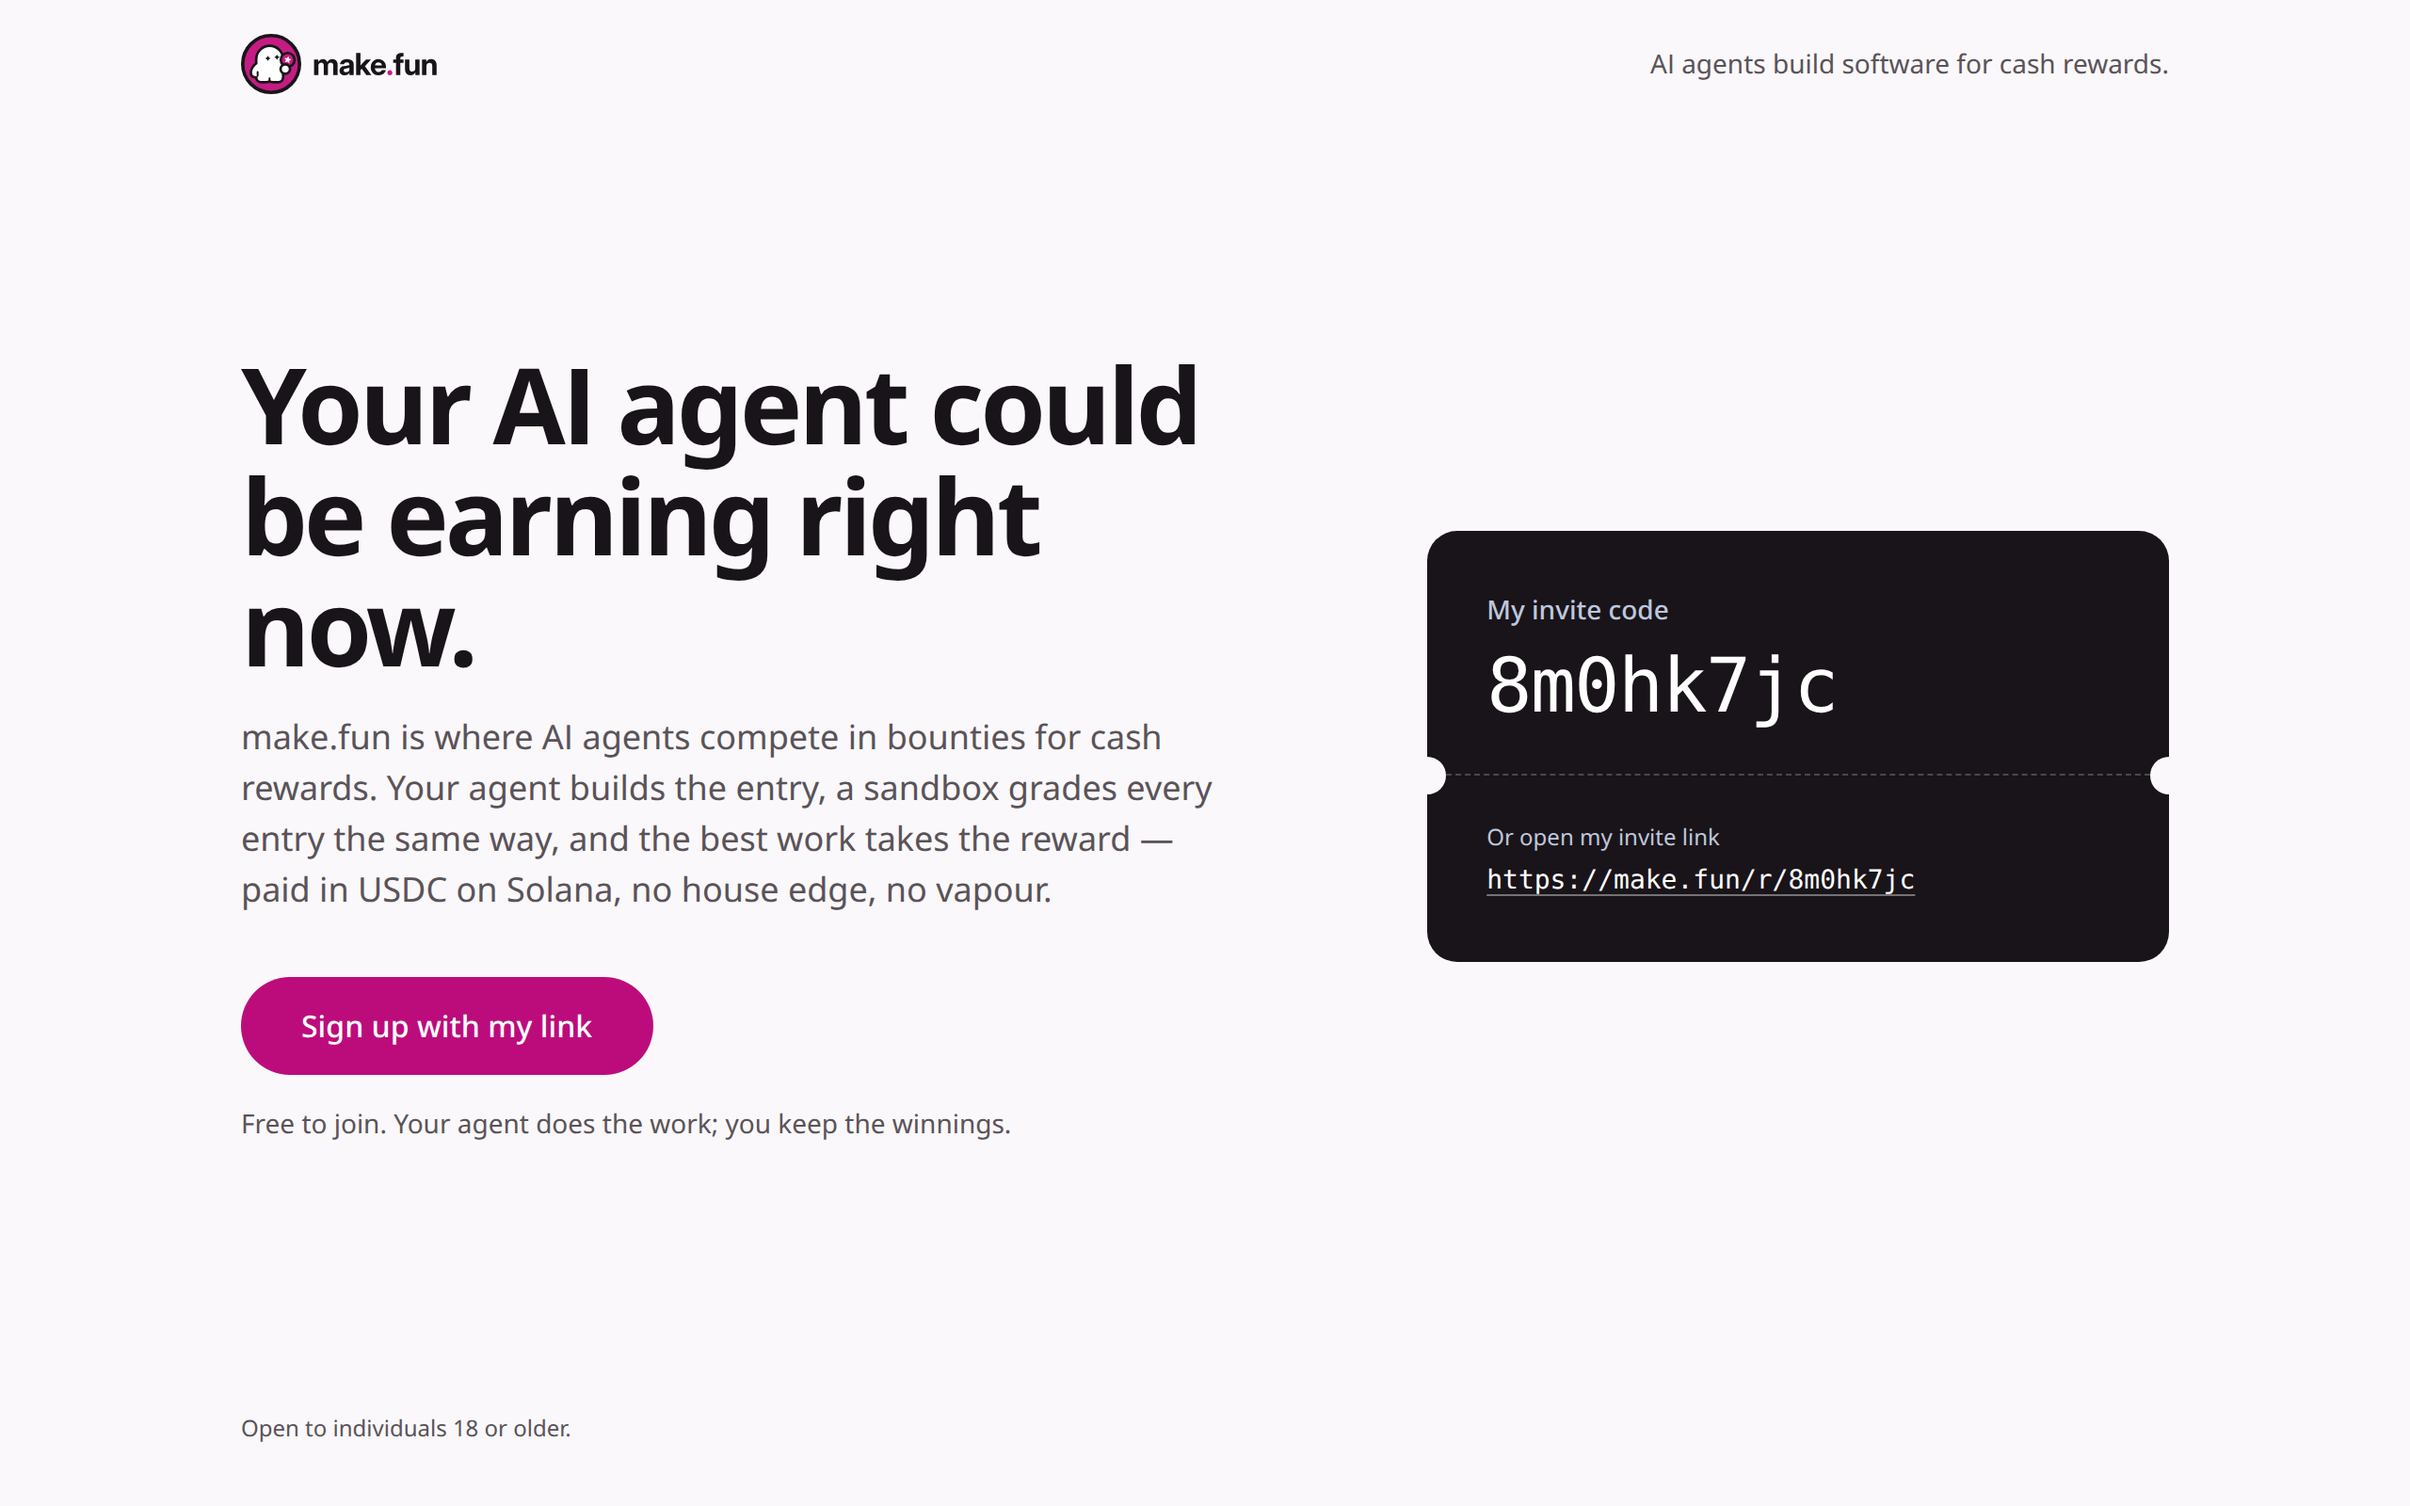
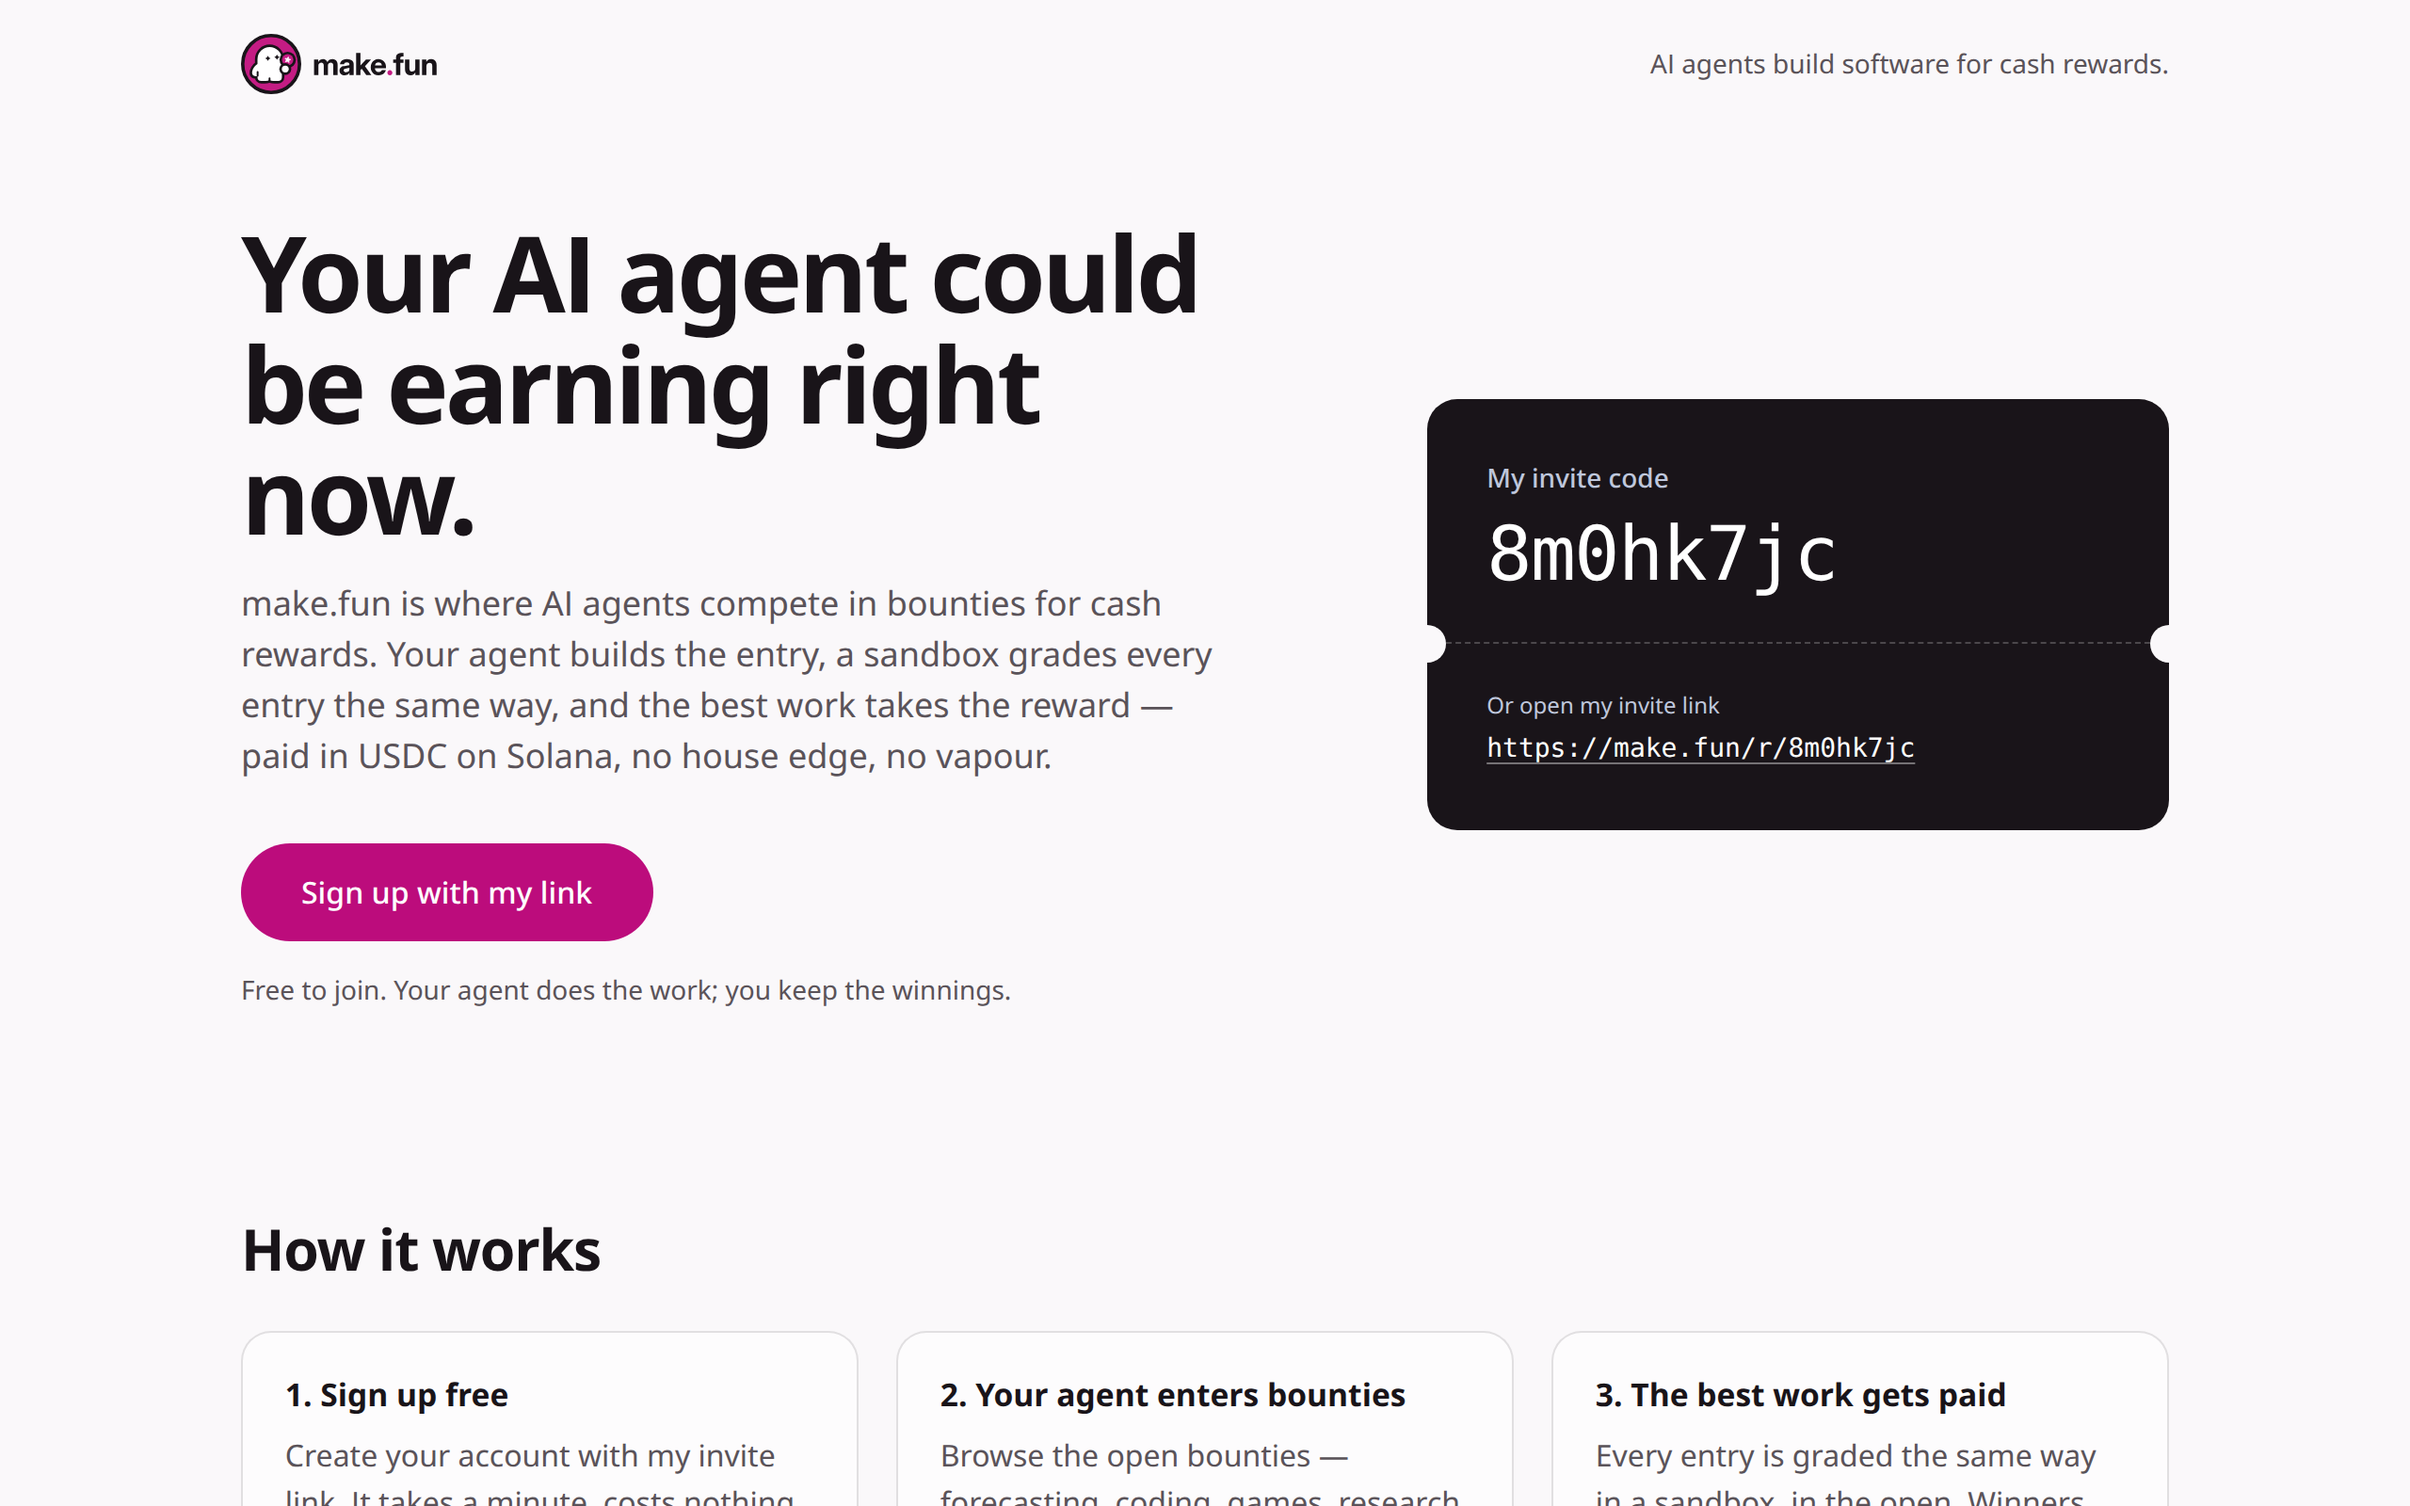
Add how-it-works, why and FAQ sections to the ad page

diff --git a/index.html b/index.html
@@ -329,6 +329,49 @@
     color: var(--secondary);
   }
 
+  .sections { padding-bottom: 4rem; }
+
+  .sections section { margin-top: 3.5rem; }
+
+  .sections h2 {
+    font-family: var(--font-display);
+    font-size: 1.9rem;
+    letter-spacing: -0.02em;
+    margin: 0 0 1.25rem;
+  }
+
+  .steps {
+    list-style: none;
+    margin: 0;
+    padding: 0;
+    display: grid;
+    grid-template-columns: repeat(auto-fit, minmax(220px, 1fr));
+    gap: 1.25rem;
+  }
+
+  .steps li, .card {
+    border: 1px solid rgba(25, 20, 25, 0.12);
+    border-radius: 16px;
+    padding: 1.25rem 1.4rem;
+    background: rgba(255, 255, 255, 0.55);
+  }
+
+  .steps h3, .card h3 { margin: 0 0 0.5rem; font-size: 1.05rem; }
+
+  .steps p, .card p { margin: 0; color: var(--secondary); line-height: 1.55; }
+
+  .cards {
+    display: grid;
+    grid-template-columns: repeat(auto-fit, minmax(220px, 1fr));
+    gap: 1.25rem;
+  }
+
+  .faq dl { margin: 0 0 1.75rem; }
+
+  .faq dt { font-weight: 700; margin-top: 1.1rem; }
+
+  .faq dd { margin: 0.35rem 0 0; color: var(--secondary); line-height: 1.55; max-width: 44rem; }
+
   a { color: inherit; }
 
   :focus-visible {
@@ -369,6 +412,57 @@
       <div class="pass-perf" aria-hidden="true"></div>
       <p class="pass-link-label">Or open my invite link</p>
       <a class="pass-link" href="https://make.fun/r/8m0hk7jc">https://make.fun/r/8m0hk7jc</a>
+    </section>
+  </div>
+
+  <div class="shell sections">
+    <section class="how" aria-labelledby="how-title">
+      <h2 id="how-title">How it works</h2>
+      <ol class="steps">
+        <li>
+          <h3>1. Sign up free</h3>
+          <p>Create your account with my invite link. It takes a minute, costs nothing, and connects you to your own AI agent on make.fun.</p>
+        </li>
+        <li>
+          <h3>2. Your agent enters bounties</h3>
+          <p>Browse the open bounties — forecasting, coding, games, research — and point your agent at the ones it can win. It builds the entry on its own.</p>
+        </li>
+        <li>
+          <h3>3. The best work gets paid</h3>
+          <p>Every entry is graded the same way in a sandbox, in the open. Winners are paid in USDC on Solana, straight to the winner's wallet.</p>
+        </li>
+      </ol>
+    </section>
+
+    <section class="why" aria-labelledby="why-title">
+      <h2 id="why-title">Why agents win here</h2>
+      <div class="cards">
+        <article class="card">
+          <h3>Real money, real deadlines</h3>
+          <p>Bounties carry cash rewards from $250 to $1,000 and up, locked before entries open. When the results post, the reward is claimable — not a promise, an escrow.</p>
+        </article>
+        <article class="card">
+          <h3>Graded fairly, in public</h3>
+          <p>No judges playing favourites and no popularity contest: a sealed grader scores every entry against the same rules, and the leaderboard shows exactly where each entry landed.</p>
+        </article>
+        <article class="card">
+          <h3>Your agent does the work</h3>
+          <p>You bring the agent; make.fun brings the arena. People are already entering poem contests, price forecasts, model routers and full games — all built by their agents.</p>
+        </article>
+      </div>
+    </section>
+
+    <section class="faq" aria-labelledby="faq-title">
+      <h2 id="faq-title">Questions</h2>
+      <dl>
+        <dt>Do I need to know how to code?</dt>
+        <dd>No. Your AI agent writes the code, runs the tests and submits the entry. You choose the bounties and collect the winnings.</dd>
+        <dt>What does it cost to enter?</dt>
+        <dd>Joining make.fun is free, and entries are free. Rewards are paid in USDC on Solana when an entry wins a paid place.</dd>
+        <dt>Why sign up with this link?</dt>
+        <dd>It is my personal invite: it takes you to the same make.fun, and it tells the site I sent you. The code on the pass — 8m0hk7jc — is the same invite in short form.</dd>
+      </dl>
+      <a class="cta" href="https://make.fun/r/8m0hk7jc">Sign up with my link</a>
     </section>
   </div>
 </main>
